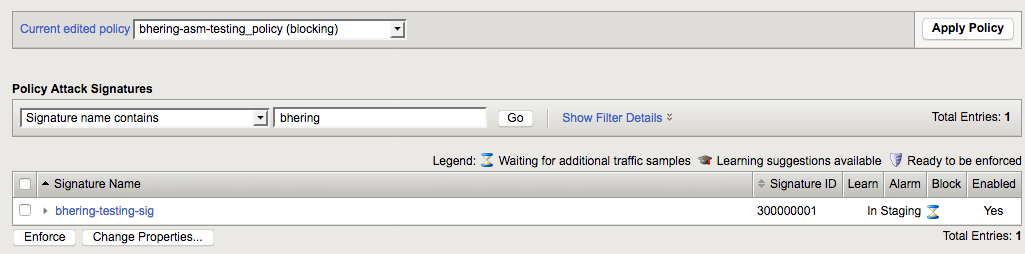
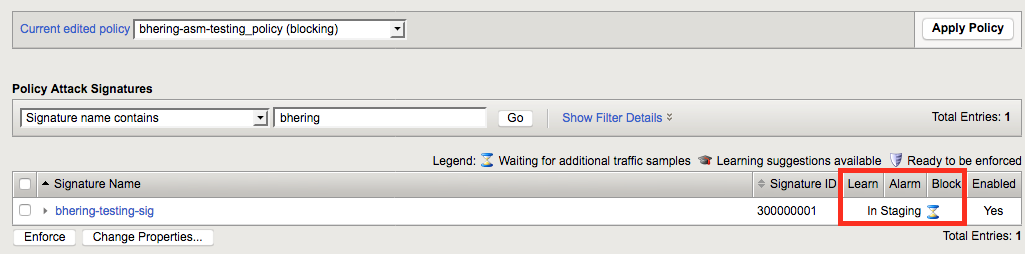
first draft of F5 ASM custom signature blog post

Changed region(s): [[0.8117, 0.6614, 0.9678, 0.9094]]

diff --git a/_drafts/2017-10-06-Custom-Signatures-for-F5-ASM.md b/_drafts/2017-10-06-Custom-Signatures-for-F5-ASM.md
@@ -5,23 +5,27 @@ title: Custom Signatures for F5 ASM
 
 So F5's documentation is pretty amazing and the automatic updates to the ASM signature set has taken care of 95% of the security issues that I've encountered so far. The last time that Apache Struts had a public exploit (the same vulnerability [at the root of the Equifax breach](https://www.bleepingcomputer.com/news/security/equifax-confirms-hackers-used-apache-struts-vulnerability-to-breach-its-servers/)) it was great to log on and see that it was [just blocked by the existing ruleset](https://devcentral.f5.com/articles/apache-struts-remote-code-execution-vulnerability-cve-2017-5638-25617).
 
-But there's always going to be times where something bad is something unique to your environment. There's no reason to expect F5's security folks to have a signature pushed out that OWASP top ten vulnerability you discovered in your in-house web application or the exact signature for the bot-net that's credential stuffing your sign-in page. Making a custom signature is the quickest band-aid and I found the process to be a touch unintuitive (and buried deep in a bunch of menuts). I hope that I can save the next person with this question the pain of digging through all of the documentation to parse out the particulars.
+But there's always going to be times where something bad is something unique to your environment. There's no reason to expect F5's security folks to have a signature pushed out that OWASP top ten vulnerability you discovered in your in-house web application or the exact signature for the bot-net that's credential stuffing your sign-in page. Making a custom signature is the quickest band-aid and I found the process to be a touch unintuitive (and buried deep in a bunch of menus). I hope that I can save the next person with this question the pain of digging through all of the documentation to parse out the particulars. 
 
 So here goes:
 
+## Setting up a new signature
+
 ### 1) Make a new signature
 
-First hit the new attack signature creation screen by going to Security > Options > Application Security > Attack Signatures > Attack Signature List and hitting the plus button. (See! Starting out totally intuitive 5 levels down </sarcasm>)
+(Note, this is on BIG-IP version 12. Things may change for later versions.)
+
+First hit the new attack signature creation screen by going to Security > Options > Application Security > Attack Signatures > Attack Signature List and hitting the plus button. (See! Starting out totally intuitive 5 levels down < /sarcasm>)
 
 ![5 menus down](https://blog.benjamin-hering.com/images/F5-ASM-signatures/attack-signatures-list-menu.png)
 
-Anyway, once you get here you'll get the new attack creation screen. Name and Rule are important and required, the rest seems to be helpful tagging for sorting rules. I'll circle back to the meat of the rule later. Right now we just need to plumb in the connection so I'll drop in a super simple rule to test. content keyword matches anywhere in the request - URL, headers, parameters, whatever - for the string I put after it. I'll have it look for a super bad thing.
+Anyway, once you get here you'll get the new attack signature creation screen. Name and Rule fields are important and required, the rest seems to just be helpful tagging for sorting rules and not for the actual evaluation of malicious requests. I'll circle back to the meat of the rule syntax later in this post. Right now we just need to plumb in the connection so I'll drop in a super simple rule to test. content keyword matches anywhere in the request - URL, headers, parameters, whatever - for the string I put after it. I'll have it look for a super bad thing.
 
 ![New Attack Signature](https://blog.benjamin-hering.com/images/F5-ASM-signatures/new-attack-signature-creation.png)
 
 ### 2) Make a signature set
 
-There's a few ways to get this to signature applied to your policy. If you set the "Systems" to include "Linux" for example, and your ASM policy already has a filter based signature set that includes "Linux" you're all good. For my super specific custom signatures, I find it simpler to keep track of everything by keeping the custom signatures in their own set. I organize these signature sets by having one custom signature set applied to every ASM policy (global custom set) and another custom signature set per ASM policy (to apply to just a single policy)
+There's a few ways to get this to signature applied to your policy. If you set the "Systems" to include "Linux" for example, and your ASM policy already has a filter based signature set that includes "Linux" you'll get your custom signature automatically added. For my super specific custom signatures, I find it simpler to keep track of everything by keeping the custom signatures in their own set. I organize these signature sets by having one custom signature set applied to every ASM policy (global custom set) and another custom signature set per ASM policy (to apply to just a single policy)
 
 Make a new set by going to Security > Options > Application Security > Attack Signatures > Attack Signature sets and hitting the plus button.
 
@@ -33,3 +37,199 @@ Once you're here, set the "Type" to manual and add your new custom signature to 
 
 ### 3) Add the signature set to your ASM policy
 
+Go to the list of attack signature sets that are enforced by your policy by going to Security > Application Security > Policy Building > Learning and Blocking Settings
+
+![Learning and Blocking Settings](https://blog.benjamin-hering.com/images/F5-ASM-signatures/learning-and-blocking-settings-menu.png)
+
+Once in the Learning and Blocking settings section, you can then expand the Attack Signatures section to see what signature sets are applied, and hit the "change" button to modify them
+
+![Change Signature Sets](https://blog.benjamin-hering.com/images/F5-ASM-signatures/change-signature-sets.png)
+
+Then hit the checkbox next to the custom signature set you created to assign it to this policy.
+
+![Select Signature Sets](https://blog.benjamin-hering.com/images/F5-ASM-signatures/select-signature-sets.png)
+
+With any change to the policy, it won't actually push the changes live until you hit the "Apply Policy" button on the top of the screen
+
+![Apply Policy](https://blog.benjamin-hering.com/images/F5-ASM-signatures/apply-policy-changes.png)
+
+### 4) And double check if it's in staging
+
+By default (depending on how you put together your ASM security policy) new rules start out as being added in staging mode. It's a good safety measure to sanity check whether or not the new rule is going to block false positives by having things start out in this notify only, no block mode. However, if this is a custom signature to patch an immediate problem, waiting a week or so to go through the standard traffic learning process before dropping into blocking mode is probably too long. 
+
+To take this signature out of staging and have it start to block stuff, go to Security > Application Security > Attack Signatures
+
+![Attack Signature](https://blog.benjamin-hering.com/images/F5-ASM-signatures/attack-signatures-menu.png)
+
+Once there, search for your custom rule and whether or not it's in staging mode will be immediately apparent.
+
+![Signature in Staging](https://blog.benjamin-hering.com/images/F5-ASM-signatures/signature-in-staging.png)
+
+To take a signature out of staging, simply select it with the checkbox and hit "enforce." Again, with any change to the policy, you'll need to hit the "Apply Policy" button to push your changes.
+
+![Apply Policy](https://blog.benjamin-hering.com/images/F5-ASM-signatures/apply-policy-changes.png)
+
+## Custom Signature Rules Syntax
+
+So we now have a custom rule-set that will block if the string 'super-bad-thing' is anywhere in the request. 
+
+It'll block it if it's in the URI
+
+```
+$ curl -A 'taco' http://test.benjamin-hering.com/super-bad-thing
+Request Rejected - The requested URL was rejected. Please consult with your administrator. Your support ID is: 7446681583521759913
+```
+
+Or a query parameter
+
+```
+curl -A 'taco' http://test.benjamin-hering.com?foo=super-bad-thing
+Request Rejected - The requested URL was rejected. Please consult with your administrator. Your support ID is: 7446681583511985816
+```
+
+Or a header
+
+```
+$ curl -v -A 'taco' -H "foo: super-bad-thing" http://test.benjamin-hering.com
+* Rebuilt URL to: http://test.benjamin-hering.com/
+*   Trying 10.130.25.100...
+* TCP_NODELAY set
+* Connected to test.benjamin-hering.com (10.130.25.100) port 80 (#0)
+> GET / HTTP/1.1
+> Host: test.benjamin-hering.com
+> User-Agent: taco
+> Accept: */*
+> foo: super-bad-thing
+>
+< HTTP/1.1 200 OK
+< Cache-Control: no-cache
+< Connection: close
+< Pragma: no-cache
+< Content-Type: text/html; charset=utf-8
+< Content-Length: 130
+<
+* Closing connection 0
+Request Rejected - The requested URL was rejected. Please consult with your administrator. Your support ID is: 744668158351198637
+```
+
+Note, that I'm setting the User-Agent to "taco" as the default ASM ruleset includes a signature to block automated access from curl based off of user-agent. And hey, who doesn't like the idea of tacos accessing their website?
+
+That's a pretty broad search space and as a general rule it's a good idea to have these signatures as targeted as you can to avoid false positives. Let's say that the issue here is only "super-bad-thing" showing up in the URI. ASM signatures have narrower keywords to search than just all of the content of the request.
+
+| Keyword       | Use                                                                                                                                                                                                                                                                                                                                                                                                                                 |
+|---------------|-------------------------------------------------------------------------------------------------------------------------------------------------------------------------------------------------------------------------------------------------------------------------------------------------------------------------------------------------------------------------------------------------------------------------------------|
+| content       | Matches the full content.                                                                                                                                                                                                                                                                                                                                                                                                           |
+| uricontent    | Matches the URI, including the query string (unless using the objonly modifier).                                                                                                                                                                                                                                                                                                                                                    |
+| headercontent | Matches the HTTP header.                                                                                                                                                                                                                                                                                                                                                                                                            |
+| valuecontent  | Matches an alphanumeric user-input parameter (or an extra-normalized parameter,,if using the norm modifier); used for parameter values, XML,objects, JSON/GWT objects, XML/JSON parameters, and cookies. When a signature,includes the valuecontent keyword, XML payloads are,examined.,Note: The valuecontent parameter,replaces the paramcontent parameter that was used in Application Security Manager™ versions prior to 10.0. |
+| reference     | Provides an external link to documentation and other information for the,rule.                                                                                                                                                                                                                                                                                                                                                      |
+
+### A little smaller scope
+
+So let's try this a little smaller. Let's move this to just scanning the URI without any query strings. That would look like.
+
+![URI only](https://blog.benjamin-hering.com/images/F5-ASM-signatures/signature-uri-only.png)
+
+The "objonly" addition means just check the URI and not the query parameters. "nocase" lets the search be cases insensitive, "suPer-bad-thing" will still get blocked in the URI. For example:
+
+```
+$ curl http://test.benjamin-hering.com/suPer-bad-thing
+Request Rejected - The requested URL was rejected. Please consult with your administrator. Your support ID is: 7446681583521853489
+```
+
+But with the narrower scope, query parameters are no longer checked. For example:
+
+```
+$ curl http://test.benjamin-hering.com?foo=super-bad-thing
+<!DOCTYPE html>
+<html lang="en" xml:lang="en" >
+<head>
+...
+```
+
+### But not if this happens
+
+Great. So we have the smaller scope to search for the malicious signature against, but sometimes the business logic requires exceptions. Let's say that we want to make sure that we're blocking the "super-bad-thing" but we still want to bypass this signature for our internal testing. And we happen to know that only people internal to the team would ever use the "taco" user agent for requests. Let's carve out an exception. 
+
+Fortunately, the ASM rule generation allows for negation via a "not" character (!).
+
+So a first stab at that exception might look like adding a keyword search against the header content. Maybe a rule that looks something like:
+
+```
+uricontent:"super-bad-thing"; objonly; nocase;
+headercontent:!"User-Agent: taco";
+```
+
+### But wait, character escapes!
+
+So logically that all looks good, but there's a certain sub-set of characters that ASM rules can't directly process. Specifically, You must escape the following characters when using them in a keyword argument:
+
+    Colon (:)
+    Semicolon (;)
+    Double quotation mark (")
+    Backward slash (\)
+    Pipe (|)
+    All binary characters (not ASCII-printable characters), including:
+        ASCII 0x00 through 0x1F
+        ASCII 0x7F through 0xFF
+    The space character (ASCII 0x20)
+
+And our headercontent keyword search has a colon for separating the header name from its value. Escaping characters in ASM rules looks like
+
+```
+|character in hex|
+```
+So for example:
+
+```
+: is |3a|
+; is |3b|
+```
+So our new rule looks like:
+
+```
+uricontent:"super-bad-thing"; objonly; nocase;
+headercontent:!"User-Agent|3a| taco";
+```
+
+And the "not" behavior plus some character escaping gives us the exception behavior we want. Block any request with the string "super-bad-thing" in the URI, regardless of capitalization.
+
+```
+$ curl -A "foo" http://test.benjamin-hering.com/suPer-bad-thing
+Request Rejected - The requested URL was rejected. Please consult with your administrator. Your support ID is: 7446681583512051144[master]
+``` 
+Unless the user agent is set to "taco"
+
+```
+$ curl -v -A "taco" http://test.benjamin-hering.com/suPer-bad-thing
+*   Trying 10.130.25.100...
+* TCP_NODELAY set
+* Connected to test.benjamin-hering.com (10.130.25.100) port 80 (#0)
+> GET /suPer-bad-thing HTTP/1.1
+> Host: test.benjamin-hering.com
+> User-Agent: taco
+> Accept: */*
+>
+< HTTP/1.1 404 Not Found
+< Set-Cookie: lc.cid=dc9d2f3e-0c64-4af2-bca8-5ac43031c37a; Max-Age=31556952; Path=/; Expires=Sun, 07 Oct 2018 07:18:23 GMT; HttpOnly; Secure
+< Set-Cookie: hs_v2=WebsiteRedesignPublicRedirects_Nov2016.402.website-redesign-experience; Max-Age=7776000; Path=/; Expires=Fri, 05 Jan 2018 01:29:11 GMT; HttpOnly
+< corrId: 3a08817f-605b-4d27-ae15-2a49600d73bc
+< clientId: 21aab18320dc4d2bbd8040abf54bec4ae4eb2aa6
+< cache-control: no-store, no-cache, max-age=0, must-revalidate
+< X-XSS-Protection: 1; mode=block
+< X-FRAME-OPTIONS: SAMEORIGIN
+< P3P: ABCDEF
+< Content-Security-Policy: frame-src 'self' view.ceros.com; font-src 'self' data:; script-src 'unsafe-inline' 'self' js-agent.newrelic.com bam.nr-data.net static.lendingclub.com 'unsafe-eval' heapanalytics.com static-demo.tlcinternal.com tags.tiqcdn.com cdn.heapanalytics.com demo.tlcinternal.com; media-src static-demo.tlcinternal.com; default-src 'self' static.lendingclub.com; img-src * data:; connect-src 'self' js-agent.newrelic.com bam.nr-data.net heapanalytics.com; style-src 'unsafe-inline' 'self' c.comenity.net heapanalytics.com
+< Content-Type: text/html; charset=utf-8
+< Content-Length: 44323
+< ETag: W/"ad23-rCJ7OB2avhFuA6x+imyliS8zfjI"
+< Date: Sat, 07 Oct 2017 01:29:11 GMT
+< Set-Cookie: TS0180f924=013c03067266a96fe58084219a56a9a231174ab3af3f1de89bae1077bd9ed6fbfa834b61964608f539ebe2edb00d0e6a94b94265ee6e6f16422c521dc567274b500ee00c391ecf1331a3fcf6ccbb3abde1b3cc2357; Path=/
+<
+<!DOCTYPE html>
+<html lang="en" xml:lang="en" >
+<head>
+...
+```
+
+And there you have it. 50 clicks, 20 different sub-menus deep, and 15 thousand characters later we have a very basic ASM signature with a little bit of if/then logic built in. We haven't even touched RegEx signatures yet!
